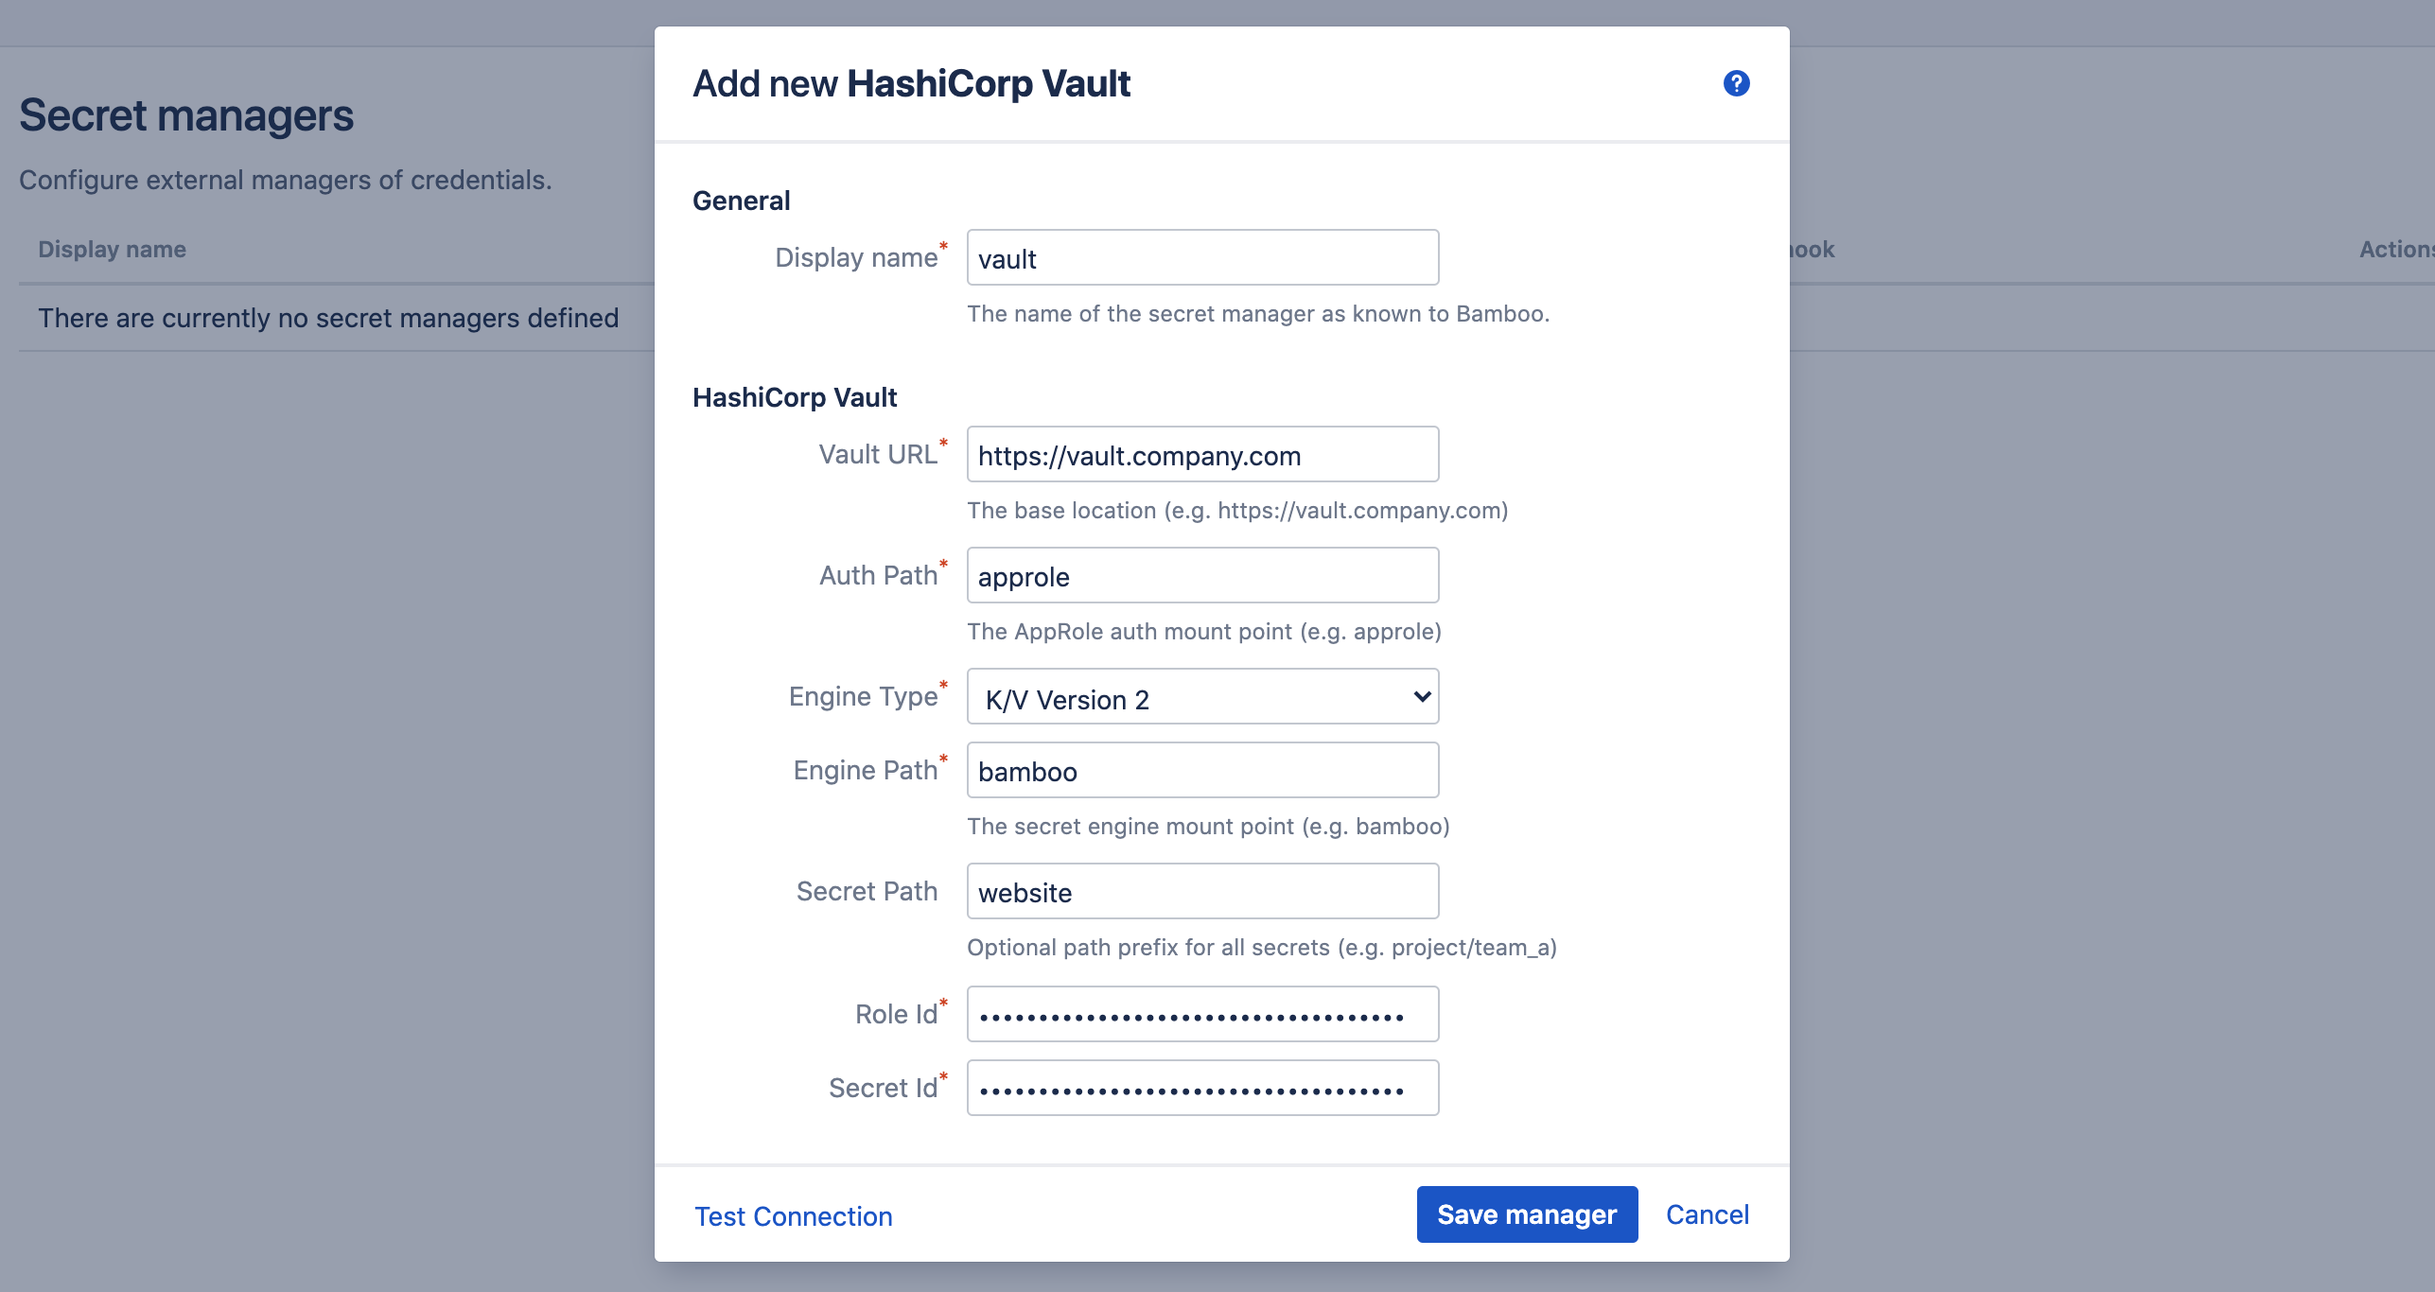
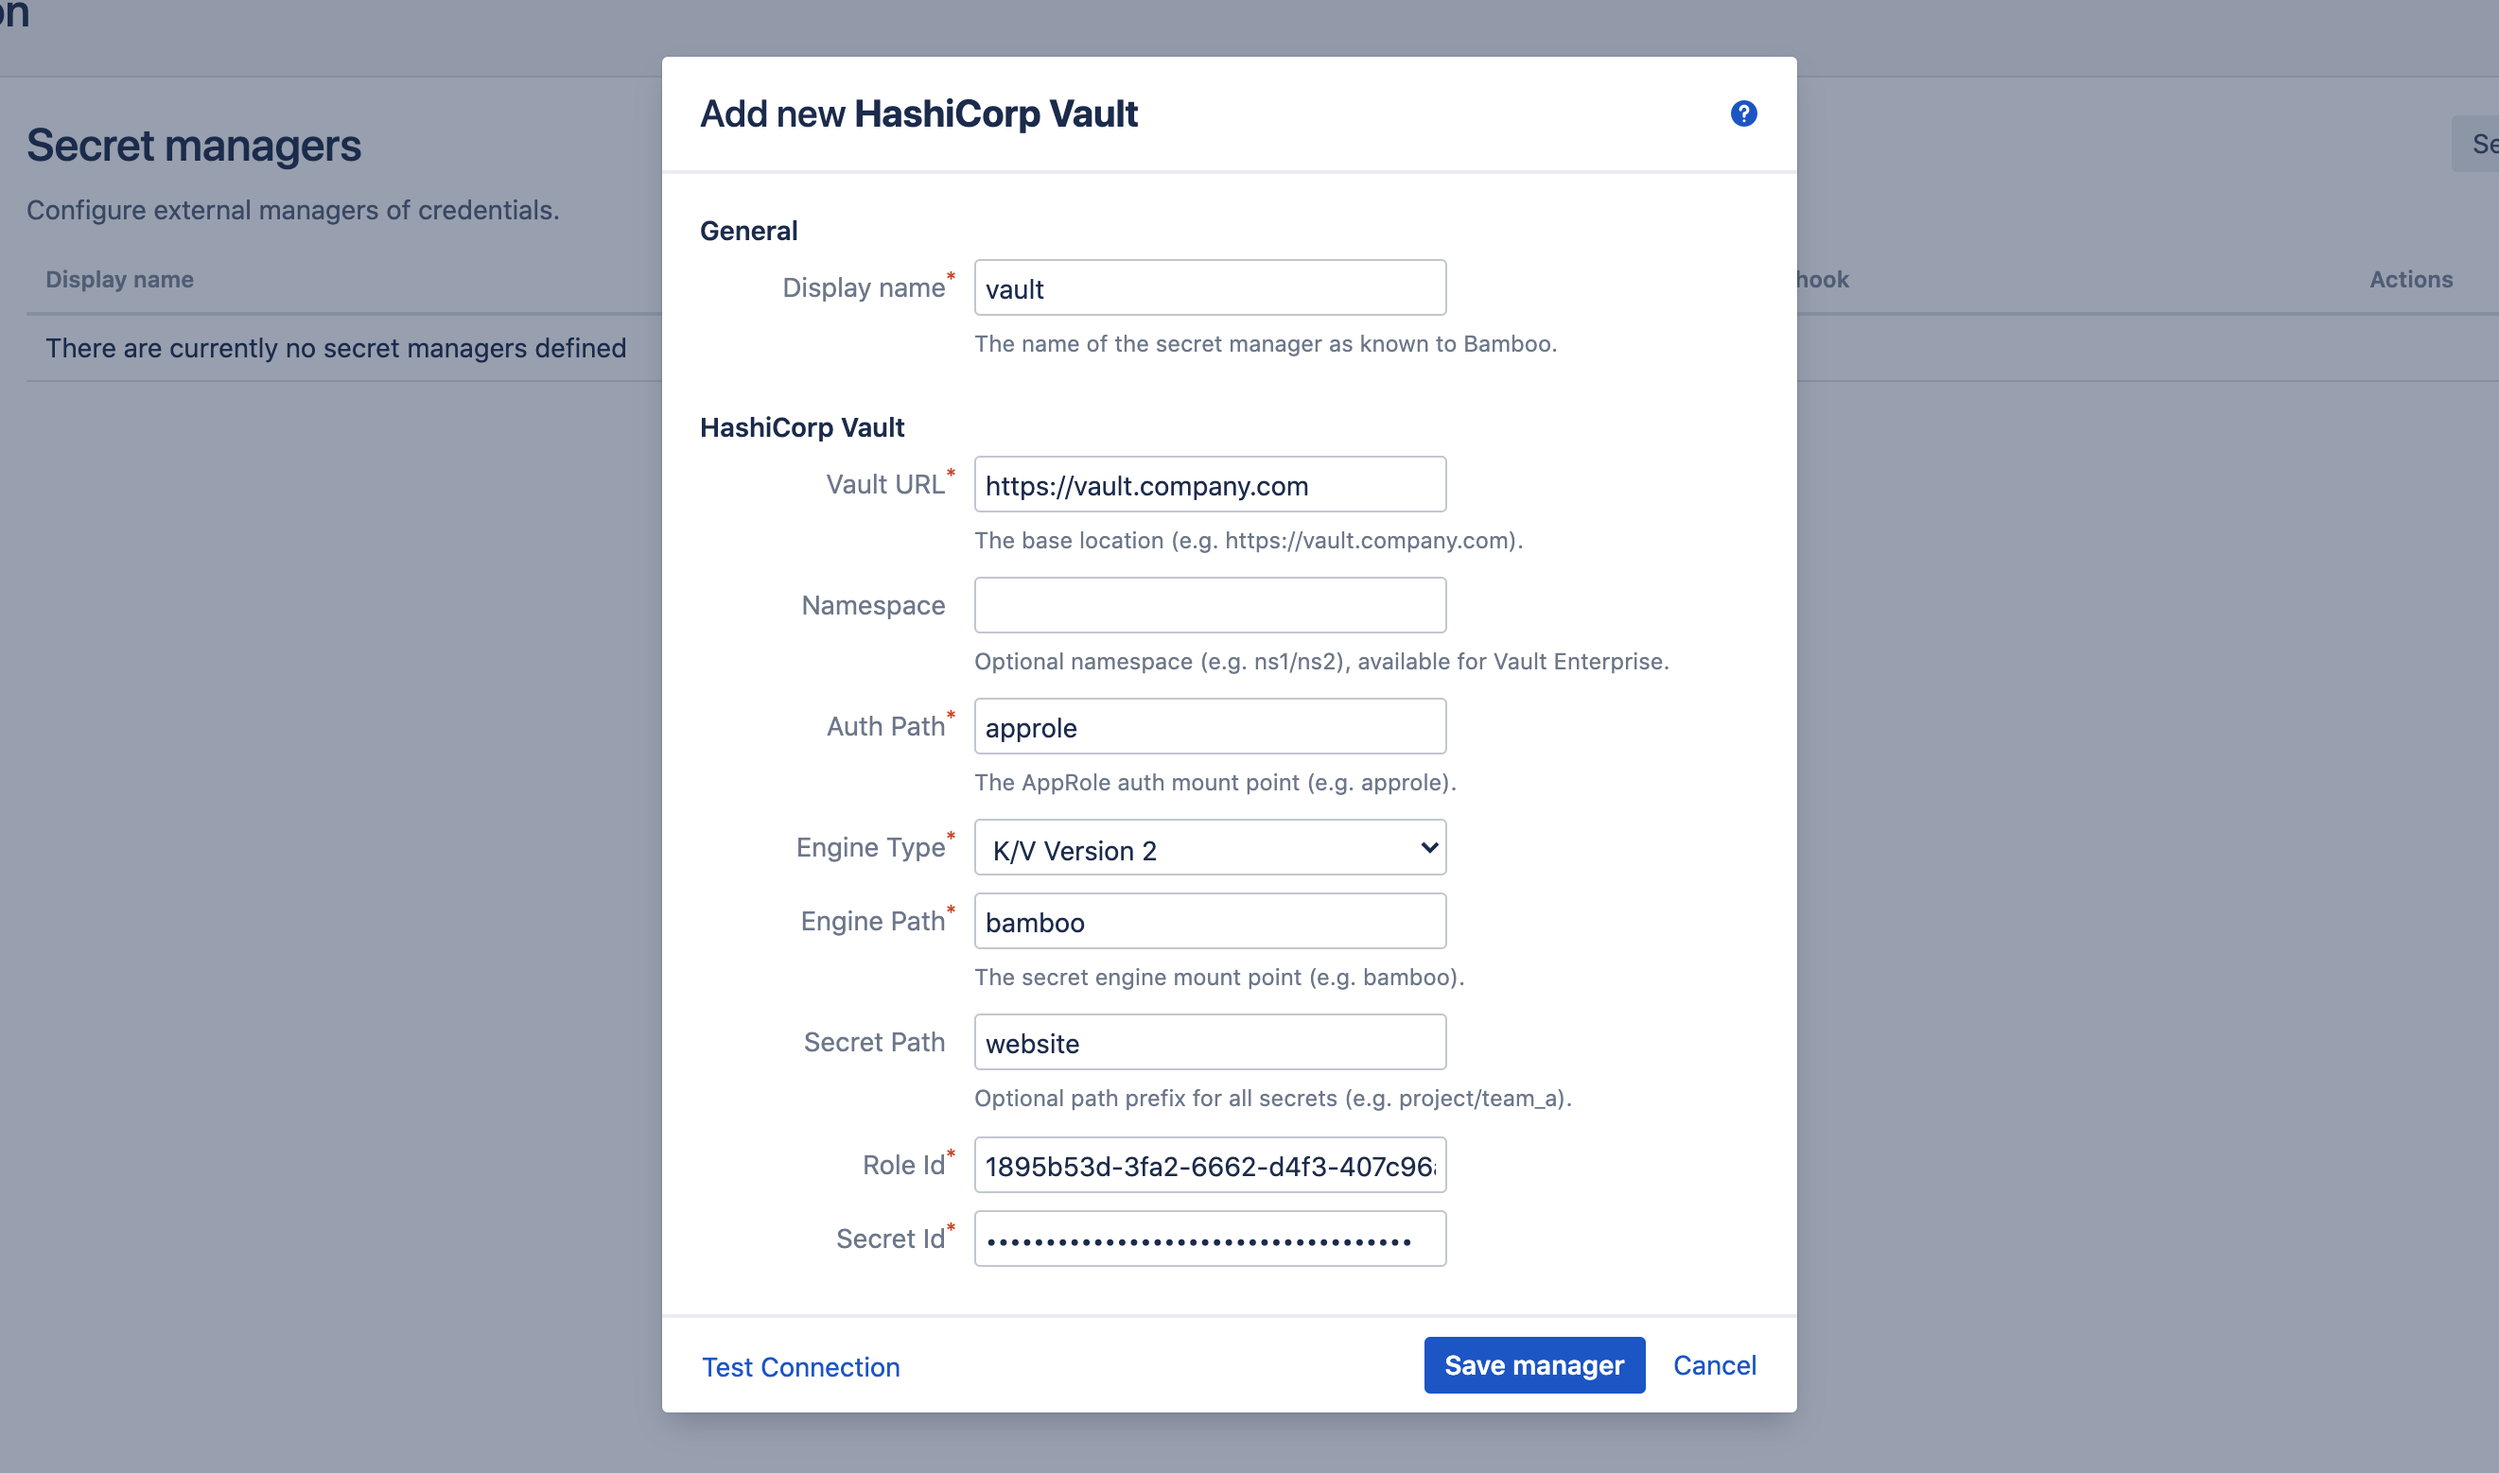
Smb release 1.7.43, vault namespaces

diff --git a/products/smb/tutorials/hcv.md b/products/smb/tutorials/hcv.md
@@ -176,6 +176,7 @@ Complete the fields as indicated:
 
 - *Display name*: this name is Bamboo-specific. It will appear on the *Secret managers* overview page, and is used to refer to the secrets held by this secret manager from Bamboo variable values. It can only contain 0-9, a-z, A-Z, and - (dash) characters.
 - *Vault URL*: the base URL of your *Vault* server installation.
+- *Namespace*: allows scoping requests against a *Vault* [namespace](https://www.vaultproject.io/docs/enterprise/namespaces). Namespaces are an enterprise feature, and will have no effect when used against a non-enterprise installation of *Vault*. The details of namespacing are outside the scope of this tutorial.
 - *Auth Path*: the path at which AppRole Auth Method is mounted, we used the default *approle*.
 - *Engine Type*: the secrets engine type, one of *K/V Version 1* or K/V Version 2.
 - *Engine Path*: the path at which the *Secrets Engine* is mounted, we used *bamboo*.

diff --git a/products/smb/releases.md b/products/smb/releases.md
@@ -2,6 +2,17 @@
 
 > This information can also be found at the Atlassian Marketplace [version page](https://marketplace.atlassian.com/apps/1221965/secret-managers-for-bamboo/version-history).
 
+## Version 1.7.43
+
+*Released* 07/02/2022
+
+*Summary* HashiCorp Vault: support for namespaces
+
+*Notes*
+
+This release adds the option to specify a [namespace](https://www.vaultproject.io/docs/enterprise/namespaces) when configuring a HashiCorp Vault secret manager.
+Namespaces are a Vault Enterprise feature. Specifying a namespace against a non-enterprise installation will have no effect.
+
 ## Version 1.7.42
 
 *Released* 31/01/2022
